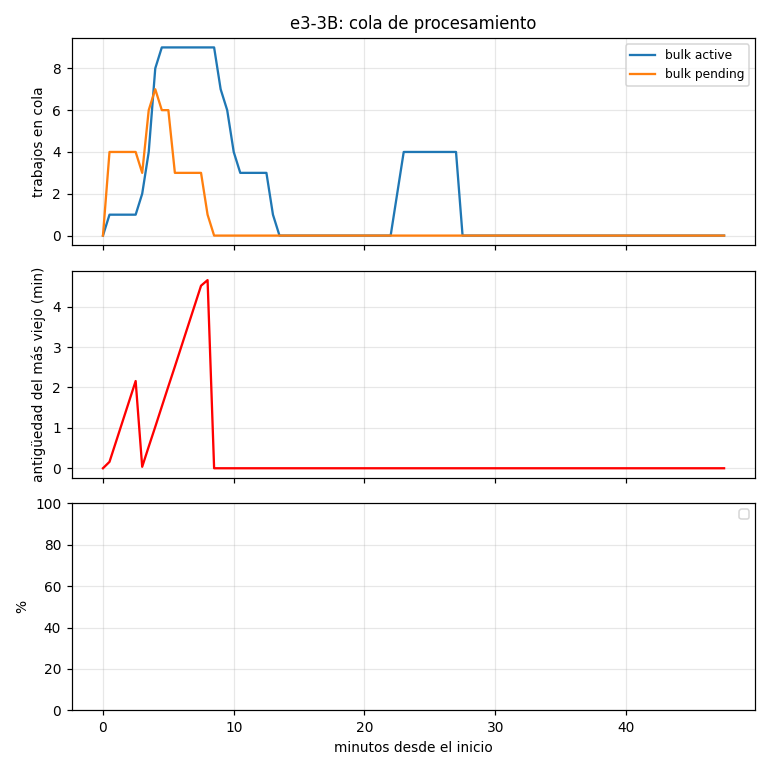
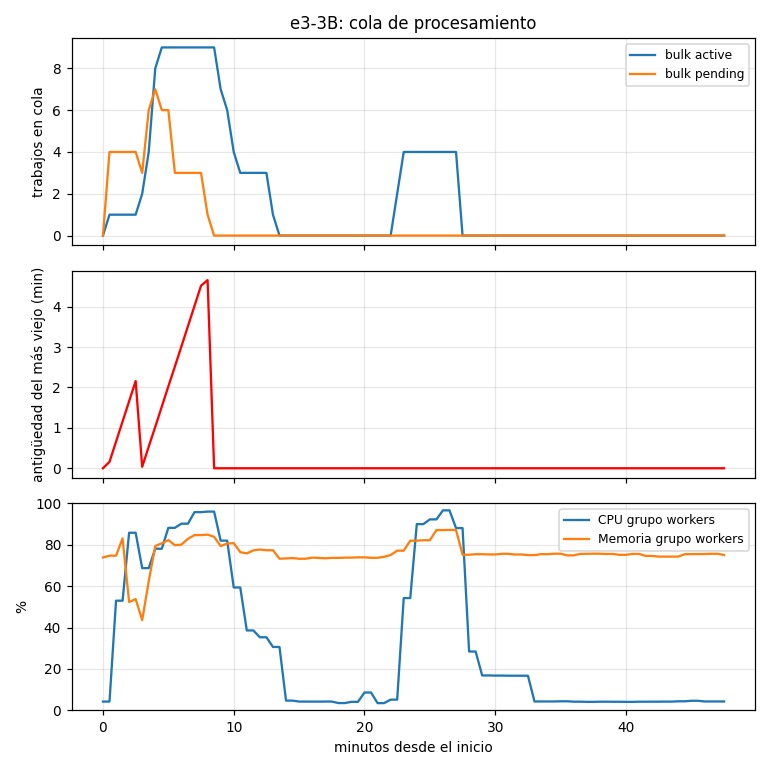
fix(capacidad): las graficas del escenario 3 salian sin la CPU de los grupos
Santiago vio barras vacias y tenia razon: graficas.py filtraba por los
nombres de maquina de la Entrega 2 (mooc-web, mooc-worker) en seis sitios.
Con los grupos no casaba ninguno, asi que la leyenda aparecia y las barras
no. Es el mismo fallo que ya se habia corregido en tabla.py y que aqui se
quedo sin arreglar.

Lo que faltaba era justo lo que sostiene la conclusion del informe: la CPU
del grupo de API al 19 % mientras Cloud SQL llega al 42 %. Sin esas barras,
la grafica no demostraba que el cuello de botella se habia mudado.

Tres fallos mas que salieron al revisarlas una a una:

- Las series de un grupo se cortaban a mitad. Para las graficas temporales
  se devolvia solo la PRIMERA instancia que casaba, y si esa se habia
  retirado pronto, la linea moria ahi. Ahora se promedian por instante
  entre las que esten vivas.
- Las leyendas decian «Web Server» y «Worker Server», nombres de maquinas
  fijas que en la Entrega 3 son grupos. Ahora se adaptan a la entrega.
- El p95 del servidor se pega a 10.000 ms y parecia una medicion. Es el
  bucket mas alto de http_request_duration_seconds: la linea plana
  significa «10 s o mas», no «10 s». Se marca en la grafica para que nadie
  la lea mal.

Esa marca aparece tambien en e1-L3-serie.png, porque el techo es el mismo
en los datos de la Entrega 2. El tag entrega-2 no se toca: la evidencia
entregada sigue siendo la de su commit.

Comprobado que las graficas de la Entrega 2 se regeneran identicas salvo
[…]

diff --git a/capacity-planning/metricas/graficas.py b/capacity-planning/metricas/graficas.py
@@ -28,6 +28,13 @@ plt.rcParams.update({"figure.dpi": 110, "font.size": 9, "axes.grid": True, "grid
 
 CPU_WORKER = "CPU Worker Server"
 
+
+def etiquetas_cpu(etiquetas):
+    """Como llamar a cada papel: en la Entrega 2 son maquinas, en la 3 grupos."""
+    if any(e.startswith("e3-") for e in etiquetas):
+        return "CPU grupo API", "CPU grupo workers"
+    return "CPU Web Server", CPU_WORKER
+
 def cargar(n):
     p = os.path.join(RES, n)
     return json.load(open(p)) if os.path.exists(p) else None
@@ -38,11 +45,66 @@ def k6(d, m, k):
     return x["values"].get(k) if x else None
 
 
-def met(m, nombre, filtro=None, campo="media"):
+def del_papel(nombre, papel):
+    """Si una serie pertenece al papel, en cualquiera de las dos entregas.
+
+    En la Entrega 2 habia una maquina fija por papel: `mooc-web` y
+    `mooc-worker`. En la 3 son grupos y cada instancia lleva sufijo propio
+    (`mooc-api-znwh`). Comparar por igualdad dejaba estas graficas con la
+    leyenda puesta y sin una sola barra, que es como se descubrio.
+    """
+    if papel == "mooc-web":
+        return nombre == "mooc-web" or nombre.startswith("mooc-api-")
+    if papel == "mooc-worker":
+        return nombre == "mooc-worker" or nombre.startswith("mooc-worker-")
+    return nombre == papel
+
+
+def series_de(m, nombre, filtro):
+    """Las series que casan con el filtro, tratando el papel por prefijo."""
+    salida = []
     for f in m["metricas"].get(nombre) or []:
-        if isinstance(f, dict) and "serie" in f and (not filtro or all(f["serie"].get(a) == b for a, b in filtro.items())):
-            return f[campo] if campo != "valores" else f["valores"]
-    return None
+        if not (isinstance(f, dict) and "serie" in f):
+            continue
+        if not filtro:
+            salida.append(f); continue
+        ok = True
+        for clave, valor in filtro.items():
+            actual = f["serie"].get(clave, "")
+            if clave in ("instance_name", "metadata_system_name"):
+                ok = ok and del_papel(actual, valor)
+            else:
+                ok = ok and actual == valor
+        if ok:
+            salida.append(f)
+    return salida
+
+
+def met(m, nombre, filtro=None, campo="media"):
+    """Un valor por papel, agregando las instancias del grupo.
+
+    El maximo se toma entre todas; la media se promedia entre ellas, porque el
+    maximo de las medias describiria a la instancia mas cargada y no al grupo.
+    """
+    fs = series_de(m, nombre, filtro)
+    if not fs:
+        return None
+    if campo == "valores":
+        # Un grupo son varias series, cada una viva en un tramo distinto: la
+        # instancia que se retira pronto solo tiene valores del principio.
+        # Quedarse con la primera cortaba la linea a mitad de la grafica. Se
+        # promedia por instante entre las que esten vivas en ese momento.
+        if len(fs) == 1:
+            return fs[0]["valores"]
+        por_instante = {}
+        for f in fs:
+            for marca, valor in f.get("valores") or []:
+                por_instante.setdefault(int(marca), []).append(float(valor))
+        return [[k, sum(v) / len(v)] for k, v in sorted(por_instante.items())]
+    vals = [f[campo] for f in fs if f.get(campo) is not None]
+    if not vals:
+        return None
+    return sum(vals) / len(vals) if campo == "media" else max(vals)
 
 
 def entrega_de(etiquetas):
@@ -99,9 +161,10 @@ def e1(etiquetas):
     fig, ax1 = plt.subplots(figsize=(7, 4))
     idx = range(len(filas))
     w = 0.2
-    ax1.bar([i - 1.5 * w for i in idx], [f["web"] for f in filas], w, label="CPU Web Server")
+    etq_web, etq_wrk = etiquetas_cpu([f["et"] for f in filas])
+    ax1.bar([i - 1.5 * w for i in idx], [f["web"] for f in filas], w, label=etq_web)
     ax1.bar([i - 0.5 * w for i in idx], [f["sql"] for f in filas], w, label="CPU Cloud SQL")
-    ax1.bar([i + 0.5 * w for i in idx], [f["wrk"] for f in filas], w, label=CPU_WORKER)
+    ax1.bar([i + 0.5 * w for i in idx], [f["wrk"] for f in filas], w, label=etq_wrk)
     ax1.bar([i + 1.5 * w for i in idx], [f["gen"] for f in filas], w, label="CPU máx. generador")
     ax1.set_xticks(list(idx), [f["et"] for f in filas])
     ax1.set_ylabel("CPU media en la ventana (%)")
@@ -168,8 +231,9 @@ def e2(etiquetas):
     for b, v in zip(barras, cpu):
         a2.annotate(f"{v:.0f} %", (b.get_x() + b.get_width() / 2, v), ha="center", va="bottom", fontsize=8)
     a2.set_ylim(0, 100)
-    a2.set_ylabel("CPU media del Worker Server (%)")
-    a2.set_title("Trabajo del Worker Server", fontsize=9)
+    quien = etiquetas_cpu(etiquetas)[1].replace("CPU ", "")
+    a2.set_ylabel(f"CPU media, {quien} (%)")
+    a2.set_title(f"Trabajo: {quien}", fontsize=9)
     fig.suptitle("Escenario 2: cada nivel de carga")
     guardar(fig, f"{entrega_de(etiquetas)}-cola-por-nivel.png")
 
@@ -182,14 +246,22 @@ def serie(et):
     m = cargar(f"{et}-metricas.json")
     t0 = datetime.fromisoformat(m["desde"].replace("Z", "+00:00")).timestamp()
     fig, axs = plt.subplots(3, 1, figsize=(7, 7), sharex=True)
-    for nombre, filtro, etq, esc in (("cpu_uso", {"instance_name": "mooc-web"}, "CPU Web Server", 100),
-                                     ("cpu_uso", {"instance_name": "mooc-worker"}, CPU_WORKER, 100),
+    etq_web, etq_wrk = etiquetas_cpu([et])
+    for nombre, filtro, etq, esc in (("cpu_uso", {"instance_name": "mooc-web"}, etq_web, 100),
+                                     ("cpu_uso", {"instance_name": "mooc-worker"}, etq_wrk, 100),
                                      ("sql_cpu", None, "CPU Cloud SQL", 100)):
         v = met(m, nombre, filtro, "valores")
         if v:
             x, y = minutos(v, t0)
             axs[0].plot(x, [a * esc for a in y], label=etq)
     axs[0].set_ylabel("CPU (%)")
+    # El bucket mas alto de http_request_duration_seconds son 10 s, asi que el
+    # p95 del servidor se queda pegado ahi cuando lo rebasa: la linea plana en
+    # 10.000 ms significa «10 s o mas», no «10 s». Se marca para que nadie la
+    # lea como una medicion.
+    axs[2].axhline(10000, color="gray", linestyle=":", linewidth=1)
+    axs[2].text(0.01, 10000, " tope del histograma (10 s)", fontsize=7,
+                color="gray", va="bottom", transform=axs[2].get_yaxis_transform())
     axs[0].legend(fontsize=8)
     v = met(m, "sql_conexiones", None, "valores")
     if v:
@@ -224,8 +296,10 @@ def cola(et):
         x, y = minutos(v, t0)
         axs[1].plot(x, [a / 60 for a in y], "r-")
     axs[1].set_ylabel("antigüedad del más viejo (min)")
-    for nombre, filtro, etq in (("cpu_uso", {"instance_name": "mooc-worker"}, CPU_WORKER),
-                                ("memoria_uso_pct", {"metadata_system_name": "mooc-worker"}, "Memoria Worker Server")):
+    _, etq_wrk = etiquetas_cpu([et])
+    mem_wrk = etq_wrk.replace("CPU", "Memoria")
+    for nombre, filtro, etq in (("cpu_uso", {"instance_name": "mooc-worker"}, etq_wrk),
+                                ("memoria_uso_pct", {"metadata_system_name": "mooc-worker"}, mem_wrk)):
         v = met(m, nombre, filtro, "valores")
         if v:
             x, y = minutos(v, t0)
